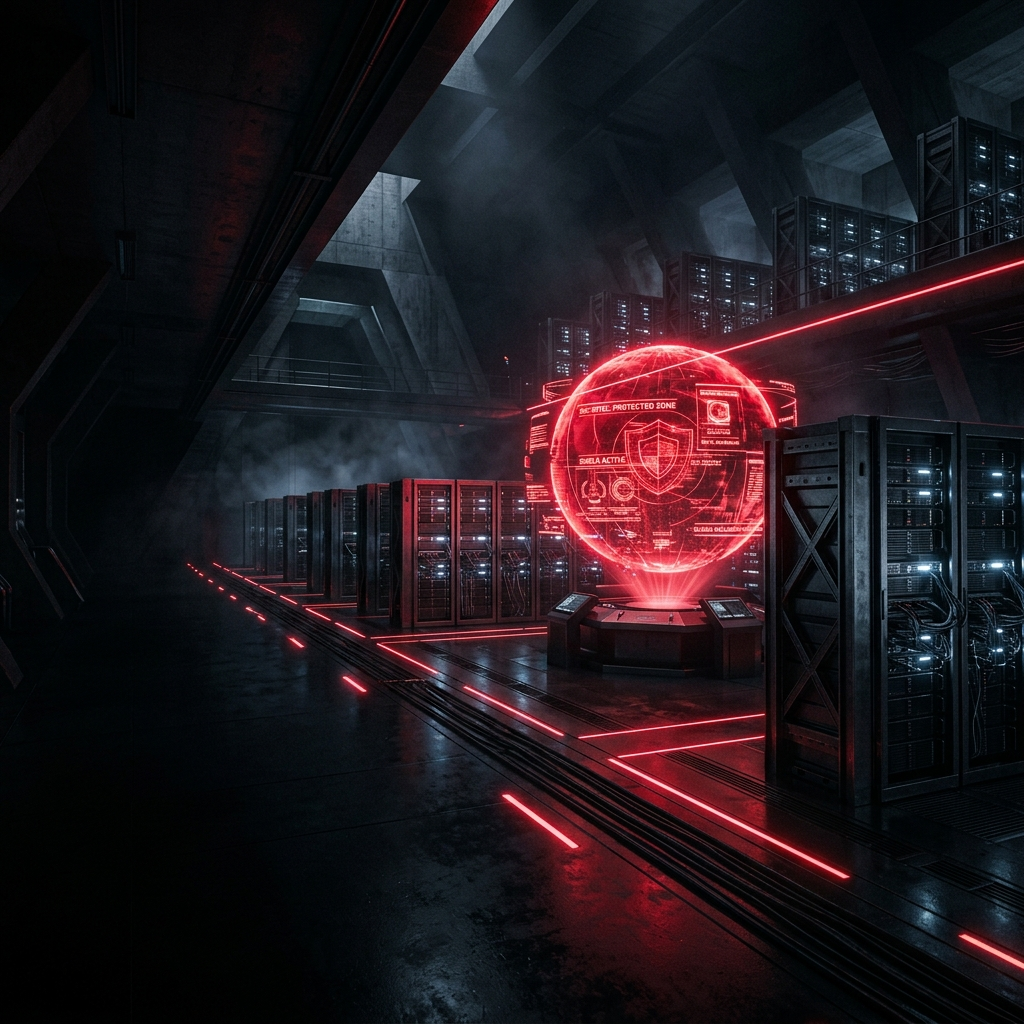
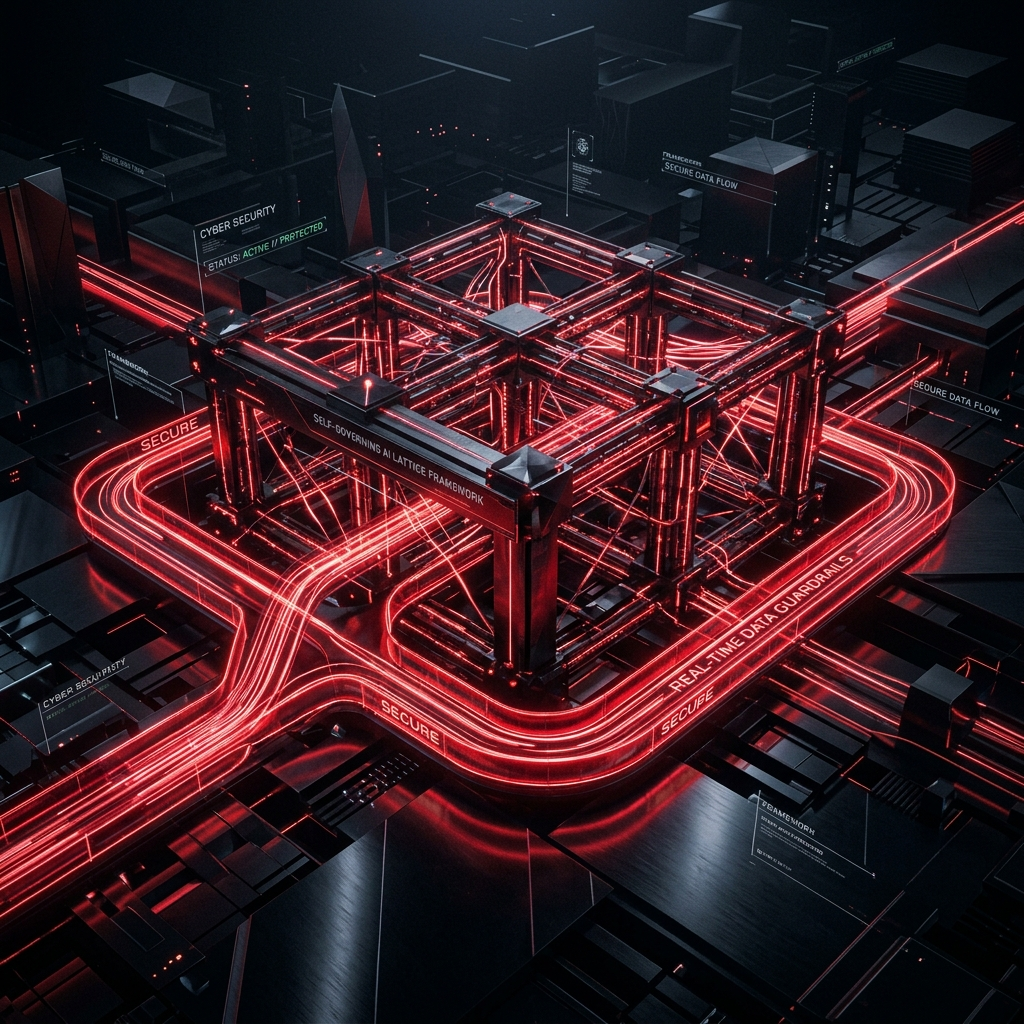
Load original background graphics directly in HeroSlider and update Slide 3 with premium render

diff --git a/src/components/HeroSlider.tsx b/src/components/HeroSlider.tsx
@@ -21,14 +21,6 @@ interface SlideItem {
   bgPositionMobile?: string;
 }
 
-const getOptimizedHeroImage = (url: string, mobile: boolean) => {
-  if (!url) return "";
-  const dotIndex = url.lastIndexOf(".");
-  if (dotIndex === -1) return url;
-  const base = url.substring(0, dotIndex);
-  return `${base}-${mobile ? "mobile" : "desktop"}.webp`;
-};
-
 export default function HeroSlider() {
   const [currentSlide, setCurrentSlide] = useState(0);
   const [isPaused, setIsPaused] = useState(false);
@@ -172,7 +164,7 @@ export default function HeroSlider() {
             }}
           >
             <Image
-              src={`${process.env.NODE_ENV === "production" ? "/Red_Bridge_" : ""}${getOptimizedHeroImage(activeSlide.visualUrl, isMobile)}`}
+              src={`${process.env.NODE_ENV === "production" ? "/Red_Bridge_" : ""}${activeSlide.visualUrl}`}
               alt={activeSlide.tag}
               fill
               priority={activeSlide.id === 0}